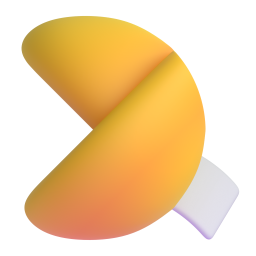
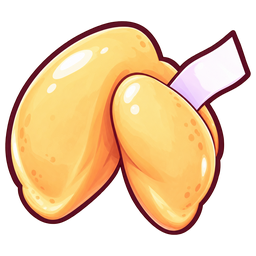
v0.8.11 휴지·포춘쿠키 새 그림, 안 쓰던 뼈다귀 그림 삭제

diff --git a/index.html b/index.html
@@ -1027,7 +1027,7 @@
   const elTitle = document.getElementById("overTitle");
   const coinNote = document.getElementById("coinNote");
 
-  const GAME_VERSION = "v0.8.10";
+  const GAME_VERSION = "v0.8.11";
   /* 제작사 스플래시(bamhobak friends 로고) — 2026-09-20 끔. 다시 켜려면 true */
   const SPLASH_USE = false;   // 코드를 고칠 때마다 뒤 두 자리를 올린다
   document.getElementById("ver").textContent = GAME_VERSION;
@@ -1851,7 +1851,8 @@
   /* 아이템 그림 — Microsoft Fluent 3D 이모지(MIT). 기기마다 다르게 보이던 글자 이모지를 대신한다.
      아직 안 불러졌으면 예전처럼 글자 이모지로 그린다.
      v0.8.10 코인·별·초승달·보름달·우산·하트·물방울은 방울이 그림체로 새로 그렸다(Codex, 얼굴 없이 —
-     얼굴 달린 똥과 한눈에 갈리게). 3·5코인은 금화 그림의 색만 바꾼 것. 똥·휴지·포춘쿠키·뼈다귀는 그대로. */
+     얼굴 달린 똥과 한눈에 갈리게). 3·5코인은 금화 그림의 색만 바꾼 것.
+     v0.8.11 휴지(뚜니핑 타임)·포춘쿠키(점술가 예언 막대)도 같은 그림체로. 똥은 그대로. */
   const ITEM_IMG = {};
   for (const [type, file] of [["moon", "crescent_moon"], ["fullmoon", "full_moon"], ["paper", "roll_of_paper"],
                               ["umbrella", "umbrella"], ["star", "star"], ["heart", "red_heart"],

diff --git a/README.md b/README.md
@@ -5,7 +5,7 @@
 👉 **플레이: https://bamhobak.github.io/ddongpi/**
 
 > 이 문서는 `index.html` 의 실제 값을 옮겨 적은 것입니다. 숫자를 고쳤으면 여기도 같이 고쳐 주세요.
-> 마지막으로 맞춰 본 판: **v0.8.10**
+> 마지막으로 맞춰 본 판: **v0.8.11**
 
 ## 조작
 - 📱 모바일: 화면 아무 데나 손가락을 대고 좌우로 **끌기** (누른 자리가 기준점 — 순간이동하지 않음). 조작은 이 하나뿐입니다 — 십자패드는 v0.8.02 에 없앴습니다
@@ -397,7 +397,8 @@
 갤러그는 v0.8.09 에 얼굴 없는 새 전투기 디자인으로 — 이 그림은 펫 카드에만 쓰고, 게임 속 우주선은 코드로 그린다(`drawShip`).
 
 아이템 그림(코인·별·초승달·보름달·우산·하트·물방울)도 v0.8.10 에 방울이 그림체로 새로 그렸습니다 — **얼굴 없이**(얼굴 달린 똥과 한눈에 갈리게, 작게 그리면 얼굴이 뭉개지기도 한다).
-3코인(파랑)·5코인(분홍)은 금화 그림의 색만 바꿔 모양이 똑같습니다. 똥·휴지·포춘쿠키·뼈다귀는 예전 그대로.
+3코인(파랑)·5코인(분홍)은 금화 그림의 색만 바꿔 모양이 똑같습니다. v0.8.11 에 휴지(뚜니핑 타임)·포춘쿠키(점술가 예언 막대)도 새로 그렸고,
+안 쓰던 뼈다귀 그림(옛 방울이 스테이지 모드의 것)은 지웠습니다. 똥은 예전 그대로.
 
 ## 게임오버 화면
 
